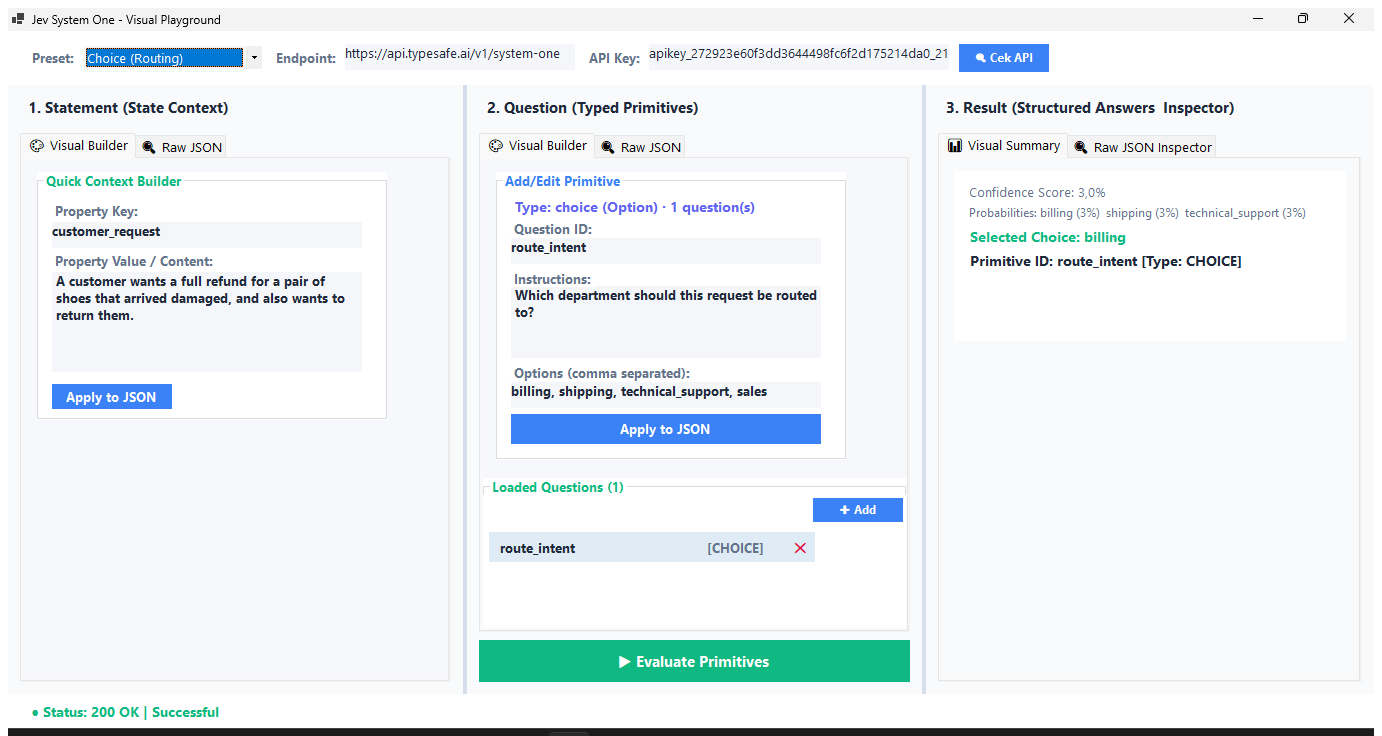
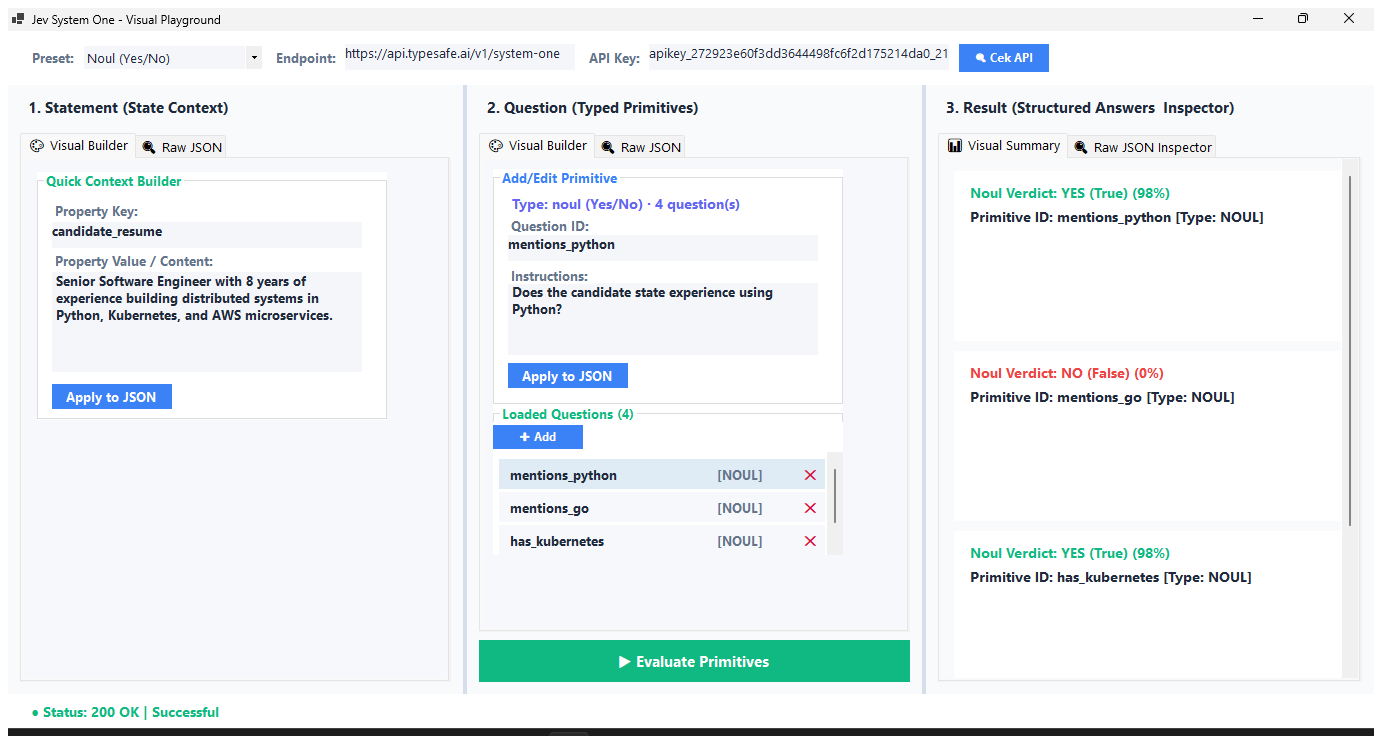
Apply to JSON compact (120x25, like Quick Context Builder), Add left-docked, Loaded Questions as card below editor, WrapContents=false fixes column-wrap; verified Add/Evaluate

diff --git a/Program.cs b/Program.cs
@@ -298,9 +298,9 @@ public class JevPlaygroundForm : Form
         TabControl tabQuestions = new TabControl { Dock = DockStyle.Fill, Font = new Font("Segoe UI", 9.5F), BackColor = ColCard, ForeColor = ColText };
 
         TabPage tabQGui = new TabPage("🎨 Visual Builder") { BackColor = ColCardAlt, ForeColor = ColText };
-        FlowLayoutPanel pnlQuestionsGui = new FlowLayoutPanel { Dock = DockStyle.Fill, AutoScroll = true, BackColor = ColCardAlt, Padding = new Padding(10), FlowDirection = FlowDirection.TopDown };
+        FlowLayoutPanel pnlQuestionsGui = new FlowLayoutPanel { Dock = DockStyle.Fill, AutoScroll = true, BackColor = ColCardAlt, Padding = new Padding(10), FlowDirection = FlowDirection.TopDown, WrapContents = false };
 
-        gbQ = new GroupBox { Text = "Add/Edit Primitive", Width = 350, Height = 265, Font = new Font("Segoe UI", 9.5F, FontStyle.Bold), BackColor = ColCard, ForeColor = ColBlue };
+        gbQ = new GroupBox { Text = "Add/Edit Primitive", Width = 350, Height = 265, Margin = new Padding(0), Font = new Font("Segoe UI", 9.5F, FontStyle.Bold), BackColor = ColCard, ForeColor = ColBlue };
 
         lblQTypeInfo = new Label { Text = "Type: noul (Yes/No)", Location = new Point(15, 25), AutoSize = true, Font = new Font("Segoe UI", 10F, FontStyle.Bold), ForeColor = ColAccent };
 
@@ -313,10 +313,10 @@ public class JevPlaygroundForm : Form
         lblQcrit = new Label { Text = "Options (comma separated):", Location = new Point(15, 192), AutoSize = true, ForeColor = ColMuted, Visible = false };
         txtQCriterias = new TextBox { Text = "Python, Go, Java", Location = new Point(15, 210), Width = 310, BackColor = ColInput, ForeColor = ColText, BorderStyle = BorderStyle.None, AutoSize = false, Height = 26, Visible = false };
 
-        btnApplyQ = new Button { Text = "➕ Add", Dock = DockStyle.Right, Width = 90, Height = 24, BackColor = ColBlue, ForeColor = Color.White, FlatStyle = FlatStyle.Flat, Cursor = Cursors.Hand, Font = new Font("Segoe UI", 9F, FontStyle.Bold) };
+        btnApplyQ = new Button { Text = "➕ Add", Dock = DockStyle.Left, Width = 90, Height = 24, BackColor = ColBlue, ForeColor = Color.White, FlatStyle = FlatStyle.Flat, Cursor = Cursors.Hand, Font = new Font("Segoe UI", 9F, FontStyle.Bold) };
         btnApplyQ.FlatAppearance.BorderSize = 0;
 
-        btnApplyJson = new Button { Text = "Apply to JSON", Location = new Point(15, 194), Width = 310, Height = 30, BackColor = ColBlue, ForeColor = Color.White, FlatStyle = FlatStyle.Flat, Cursor = Cursors.Hand, Font = new Font("Segoe UI", 9.5F, FontStyle.Bold) };
+        btnApplyJson = new Button { Text = "Apply to JSON", Location = new Point(15, 199), Width = 120, Height = 25, BackColor = ColBlue, ForeColor = Color.White, FlatStyle = FlatStyle.Flat, Cursor = Cursors.Hand };
         btnApplyJson.FlatAppearance.BorderSize = 0;
         btnApplyJson.Click += (s, e) => {
             try
@@ -420,7 +420,7 @@ public class JevPlaygroundForm : Form
         gbQ.Controls.AddRange(new Control[] { lblQTypeInfo, lblQi, txtQId, lblQins, txtQInstructions, lblQcrit, txtQCriterias });
         gbQ.Controls.Add(btnApplyJson);
 
-        gbQList = new GroupBox { Text = "Loaded Questions", Width = 350, Height = 150, Dock = DockStyle.Bottom, Font = new Font("Segoe UI", 9.5F, FontStyle.Bold), BackColor = ColCard, ForeColor = ColEmerald, Padding = new Padding(0) };
+        gbQList = new GroupBox { Text = "Loaded Questions", Width = 350, Height = 150, Margin = new Padding(0), Font = new Font("Segoe UI", 9.5F, FontStyle.Bold), BackColor = ColCard, ForeColor = ColEmerald, Padding = new Padding(0) };
         var pnlAddBar = new Panel { Dock = DockStyle.Top, Height = 30, BackColor = ColCard, Padding = new Padding(0, 3, 3, 3) };
         pnlAddBar.Controls.Add(btnApplyQ);
         pnlQList = new FlowLayoutPanel { Dock = DockStyle.Fill, AutoScroll = true, FlowDirection = FlowDirection.TopDown, WrapContents = false, Padding = new Padding(6, 4, 6, 6), BackColor = ColCard };
@@ -428,8 +428,8 @@ public class JevPlaygroundForm : Form
         gbQList.Controls.Add(pnlAddBar);
 
         pnlQuestionsGui.Controls.Add(gbQ);
+        pnlQuestionsGui.Controls.Add(gbQList);
 
-        tabQGui.Controls.Add(gbQList);
         tabQGui.Controls.Add(pnlQuestionsGui);
 
         TabPage tabQJson = new TabPage("🔍 Raw JSON") { BackColor = ColCardAlt };
